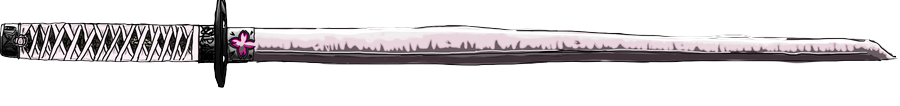
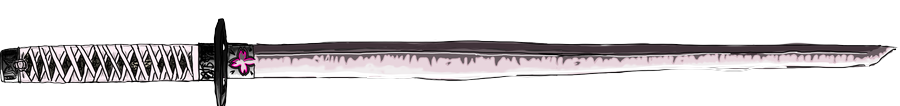
旧一閃: 桜華を持つと桜の戦場・花びら・赤黒い居合の軌跡、互いに後なしで赤黒い落花の夜、タイトルも赤黒に。桜華の絵の刃の向きを他の刀に揃える
Claude-Session: https://claude.ai/code/session_01DBbkq7fSoX7Bq9Hc8fxKrx

diff --git a/js/game.js b/js/game.js
@@ -215,7 +215,7 @@ const KATANA=[
   {id:'shiden',mei:'紫電',yomi:'しでん',tier:'極',wrap:[72,32,112],metal:'silver',blade:[172,102,255,0.45],lore:'研ぎ澄まされた刃のきらめき。紫の稲妻。',slash:{col:'#f3e8ff',glow:'rgba(170,90,255,1)',double:true,thick:1.3}},
   {id:'mugen',mei:'夢幻',yomi:'むげん',tier:'幻',wrap:[22,22,32],metal:'gold',blade:'iris',lore:'夢か、幻か。持つ者の影さえ映さない。',slash:{rainbow:true,glow:'rgba(180,140,255,1)',double:true,thick:1.5}},
   {id:'nichirin',mei:'日輪',yomi:'にちりん',tier:'幻',wrap:[232,202,122],metal:'gold',blade:[255,232,152,0.5],lore:'昇る日の輪。抜けば竹林に朝が来るという。',slash:{col:'#fff6d0',glow:'rgba(255,190,40,1)',double:true,thick:1.6}},
-  {id:'ouka',mei:'桜華',yomi:'おうか',tier:'絶',src:'assets/katana_ouka.png',lore:'散ってなお咲く、ただ一振りの桜。抜けば竹林に花が舞う。',slash:{col:'#ffe8f0',glow:'rgba(255,140,185,1)',double:true,thick:1.7}},
+  {id:'ouka',mei:'桜華',yomi:'おうか',tier:'絶',src:'assets/katana_ouka.png',lore:'散ってなお咲く、ただ一振りの桜。抜けば竹林に花が舞う。',slash:{col:'#24030a',glow:'rgba(235,20,55,1)',double:true,thick:1.7,petals:true}},
   {id:'geppaku',mei:'月白',yomi:'げっぱく',tier:'幻',wrap:[236,236,242],metal:'silver',blade:'iris',lore:'月が昇る前、東の空がわずかに白む色。鍛えた者を誰も知らない。',slash:{rainbow:true,glow:'rgba(233,184,255,1)',double:true,thick:1.5}}
 ];
 const KMAP={}; KATANA.forEach(k=>KMAP[k.id]=k);
@@ -713,16 +713,16 @@ function drawSlashes(c,now){
   const xW0=sideX(fx.sW), xL0=sideX(fx.sL), dirWL=Math.sign(xL0-xW0), dirLW=-dirWL, base=Math.max(3,VH*0.014)*(fx.mutual?1.6:1);
   if(fx.kind==='iai'&&e>=120){
     const u=ease(clamp((e-120)/200)), life=1-clamp((e-380)/800), y=GY-0.58*FH;
-    slash(c,dirWL>0?-40:VW+40,y,dirWL>0?VW+40:-40,y,u,base*life,katOf(fx.W.i).slash);
+    slash(c,dirWL>0?-40:VW+40,y,dirWL>0?VW+40:-40,y,u,base*life,katOf(fx.W.i).slash); zSlashPetals(c,fx.W.i,e-120);
   } else if((fx.kind==='counter1'||fx.kind==='counterWin')&&e>=140){
     const cx=(xL0+xW0)/2, cy=GY-0.55*FH, a=0.62, d=[dirLW*Math.cos(a),Math.sin(a)], half=VW*0.2;
     const u=ease(clamp((e-140)/170)), life=1-clamp((e-420)/650);
-    slash(c,cx-d[0]*half,cy-d[1]*half,cx+d[0]*half,cy+d[1]*half,u,base*0.95*life,katOf(fx.W.i).slash);
+    slash(c,cx-d[0]*half,cy-d[1]*half,cx+d[0]*half,cy+d[1]*half,u,base*0.95*life,katOf(fx.W.i).slash); zSlashPetals(c,fx.W.i,e-120);
   } else if(fx.kind==='just'){
     if(e>=120){ const u=ease(clamp((e-120)/160)), life=1-clamp((e-285)/120), y=GY-0.58*FH;
-      slash(c,dirLW>0?-40:VW+40,y,VW/2,y,u,base*life,katOf(fx.L.i).slash); }
+      slash(c,dirLW>0?-40:VW+40,y,VW/2,y,u,base*life,katOf(fx.L.i).slash); zSlashPetals(c,fx.L.i,e-120); }
     if(e>=300){ const u=ease(clamp((e-300)/180)), life=1-clamp((e-650)/900), y=GY-0.6*FH;
-      slash(c,dirLW>0?VW+40:-40,y,dirLW>0?-40:VW+40,y,u,base*1.25*life,katOf(fx.W.i).slash); }
+      slash(c,dirLW>0?VW+40:-40,y,dirLW>0?-40:VW+40,y,u,base*1.25*life,katOf(fx.W.i).slash); zSlashPetals(c,fx.W.i,e-120); }
   } else if(fx.kind==='aiuchi'&&e>=250){
     const u=ease(clamp((e-250)/120)), life=1-clamp((e-420)/400), cx=VW/2, cy=GY-0.6*FH, r=FH*0.6;
     slash(c,cx-r,cy-r*0.6,cx+r,cy+r*0.6,u,base*0.8*life); slash(c,cx+r,cy-r*0.6,cx-r,cy+r*0.6,u,base*0.8*life);
@@ -899,20 +899,27 @@ function enso(c,cx,cy,R,col,seed){ const r=mulberry32(seed); const a0=-1.9, span
   c.restore(); }
 function drawTitle(c,now){
   // 墨を重ねて竹林を沈める
+  const Z=KREADY&&katOf(0).tier==='絶'; // 絶の刀を持たせていると、赤黒い闇と紅い月
+  const R=Math.min(VH*0.3,VW*0.2), ecx=VW*0.36, ecy=VH*0.42;
+  if(Z){ c.save(); const zg=c.createRadialGradient(VW*0.4,VH*0.5,VH*0.05,VW*0.45,VH*0.5,Math.max(VW,VH)*0.75); zg.addColorStop(0,'#5a0d18'); zg.addColorStop(0.55,'#250609'); zg.addColorStop(1,'#070203');
+    c.fillStyle=zg; c.fillRect(0,0,VW,VH);
+    c.globalAlpha=0.6; c.fillStyle='#b3122a'; c.shadowColor='#ff2a44'; c.shadowBlur=R*0.5; c.beginPath(); c.arc(ecx+R*0.55,ecy-R*0.35,R*0.62,0,7); c.fill(); c.restore();
+    c.save(); c.globalAlpha=0.1; c.fillStyle='#ff5a6a'; c.font='bold '+(R*2.1)+'px '+DISPLAY; c.textAlign='center'; c.textBaseline='middle'; c.fillText('絶',ecx-R*0.55,ecy+R*0.15); c.restore();
+    enso(c,ecx,ecy,R,'rgba(220,40,60,0.22)',23);
+  } else {
   c.save(); c.fillStyle='rgba(14,15,12,0.84)'; c.fillRect(0,0,VW,VH);
   const vg=c.createRadialGradient(VW*0.34,VH*0.4,VH*0.1,VW*0.4,VH*0.5,Math.max(VW,VH)*0.75); vg.addColorStop(0,'rgba(40,42,34,0)'); vg.addColorStop(1,'rgba(4,4,3,0.7)');
   c.fillStyle=vg; c.fillRect(0,0,VW,VH); c.restore();
   // 月（円相）
-  const R=Math.min(VH*0.3,VW*0.2), ecx=VW*0.36, ecy=VH*0.42;
   c.save(); const mg=c.createRadialGradient(ecx,ecy,0,ecx,ecy,R*1.6); mg.addColorStop(0,'rgba(230,222,200,0.10)'); mg.addColorStop(1,'rgba(230,222,200,0)'); c.fillStyle=mg; c.fillRect(0,0,VW,VH); c.restore();
-  enso(c,ecx,ecy,R,'rgba(226,218,196,0.13)',23);
+  enso(c,ecx,ecy,R,'rgba(226,218,196,0.13)',23); }
   // 刀の下に掃いた墨
   const kw=Math.min(VW*0.66,VH*1.7), kh=kw*KIMG_H/KIMG_W, kcx=VW*0.37, kcy=VH*0.47, ang=-0.2;
   c.save(); c.translate(kcx,kcy); c.rotate(ang);
   brushStroke(c,-kw*0.58,kh*1.5,kw*0.46,kh*1.25,kh*1.1,'rgba(4,4,3,0.55)',7);
   // 刀（描き替えず、光と影だけ）
   if(KIMG.complete&&KIMG.naturalWidth){
-    const TK=KREADY?katOf(0).canvas:KIMG; c.save(); c.shadowColor='rgba(0,0,0,0.85)'; c.shadowBlur=18; c.shadowOffsetY=6; c.drawImage(TK,-kw/2,-kh/2,kw,kh); c.restore();
+    const TK=KREADY?katOf(0).canvas:KIMG; c.save(); c.shadowColor=Z?'rgba(255,30,60,0.8)':'rgba(0,0,0,0.85)'; c.shadowBlur=18; c.shadowOffsetY=6; c.drawImage(TK,-kw/2,-kh/2,kw,kh); c.restore();
     const T=5200, k=(now%T)/T;
     if(k<0.42){ const u=ease(k/0.42), B0=262, sx=B0+(KIMG_W-B0)*u, gw=KIMG_W*0.09, a=0.85*Math.sin(Math.PI*u);
       if(!SHINE){ SHINE=document.createElement('canvas'); SHINE.width=KIMG_W; SHINE.height=KIMG_H; }
@@ -937,15 +944,79 @@ function drawTitle(c,now){
   c.globalCompositeOperation='destination-out'; const r=mulberry32(3); for(let i=0;i<26;i++){ c.globalAlpha=0.5; c.beginPath(); c.arc((r()-0.5)*sz,(r()-0.5)*sz,r()*sz*0.035,0,7); c.fill(); }
   c.restore();
   txt(c,'閃',lx,ly+1,sz*0.72,DISPLAY,'rgba(14,15,12,0.85)','center');
+  // 散る花びら（絶）
+  if(Z){ for(let i=0;i<90;i++){ const q=ZPET[i], t=now/1000, x=((q.x+t*0.02*q.s+Math.sin(t*0.7+i)*0.01)%1)*VW, y=((q.y+t*0.035*q.s)%1)*VH, sz=VH*0.008*(1+q.s), rr=q.r+t*1.5*q.s;
+    c.save(); c.globalAlpha=0.55+q.v*0.4; c.fillStyle=q.k<0.3?'#1a0205':q.k<0.75?'#b3122a':'#e0566c'; c.translate(x,y); c.rotate(rr); c.scale(1,0.45+0.55*Math.abs(Math.sin(rr*1.7))); c.beginPath(); c.ellipse(0,0,sz,sz*0.55,0,0,7); c.fill(); c.restore(); } }
   // 散る一葉
   const lt=(now%9000)/9000, lx2=VW*(0.62-lt*0.25)+Math.sin(lt*9)*VW*0.02, ly2=VH*(-0.05+lt*1.1), L=VH*0.024;
-  c.save(); c.translate(lx2,ly2); c.rotate(0.6+Math.sin(lt*7)*0.9); c.fillStyle='rgba(150,160,120,0.5)'; c.beginPath(); c.moveTo(-L,0); c.quadraticCurveTo(0,-L*0.22,L,0); c.quadraticCurveTo(0,L*0.22,-L,0); c.fill(); c.restore();
+  if(!Z){ c.save(); c.translate(lx2,ly2); c.rotate(0.6+Math.sin(lt*7)*0.9); c.fillStyle='rgba(150,160,120,0.5)'; c.beginPath(); c.moveTo(-L,0); c.quadraticCurveTo(0,-L*0.22,L,0); c.quadraticCurveTo(0,L*0.22,-L,0); c.fill(); c.restore(); }
   // 紙の肌理
   c.save(); c.fillStyle=grainPattern(c); c.fillRect(0,0,VW,VH); c.restore();
 }
 
 
 /* ---------- 互いに後なし：ステージの変化と豪華な決着 ---------- */
+/* ---------- 絶の戦場（桜華を持つ者がいると竹林が桜の森に。互いに後なしでは赤黒い落花の夜） ---------- */
+const ZFS={b:0,f:0,last:0};
+function zetsuField(now){
+  const on=G.phase!=='title'&&(katOf(0).tier==='絶'||katOf(1).tier==='絶');
+  const dt=Math.min(0.1,Math.max(0,(now-ZFS.last)/1000)); ZFS.last=now;
+  ZFS.b+=((on?1:0)-ZFS.b)*Math.min(1,dt*3); if(!on&&ZFS.b<0.01) ZFS.b=0;
+  ZFS.f=on?mutualLevel(now):0; return ZFS;
+}
+function buildSakuraBG(night){
+  const bgc=document.createElement('canvas'); bgc.width=Math.round(VW*DPR); bgc.height=Math.round(VH*DPR);
+  const b=bgc.getContext('2d'); b.setTransform(DPR,0,0,DPR,0,0); const rnd=mulberry32(night?71:70);
+  let g=b.createLinearGradient(0,0,0,GY);
+  if(night){ g.addColorStop(0,'#050102'); g.addColorStop(0.5,'#2c040b'); g.addColorStop(1,'#7a0c1e'); } else { g.addColorStop(0,'#f8dfe6'); g.addColorStop(0.6,'#f0bccb'); g.addColorStop(1,'#dc90a8'); }
+  b.fillStyle=g; b.fillRect(0,0,VW,GY+2);
+  if(night){ // 大きな月と、紅い暈
+    const mx=VW*0.72, my=VH*0.24, R=Math.min(VW,VH)*0.17; const mg=b.createRadialGradient(mx,my,R*0.7,mx,my,R*2.6); mg.addColorStop(0,'rgba(255,190,200,.35)'); mg.addColorStop(1,'rgba(255,60,80,0)'); b.fillStyle=mg; b.fillRect(0,0,VW,GY);
+    b.fillStyle='#f3dde0'; b.beginPath(); b.arc(mx,my,R,0,7); b.fill(); b.fillStyle='rgba(170,20,45,.28)'; b.beginPath(); b.arc(mx-R*0.22,my-R*0.08,R*0.84,0,7); b.fill();
+  } else { const sg=b.createRadialGradient(VW*0.5,VH*0.3,0,VW*0.5,VH*0.3,VH*0.6); sg.addColorStop(0,'rgba(255,246,248,.9)'); sg.addColorStop(1,'rgba(255,246,248,0)'); b.fillStyle=sg; b.fillRect(0,0,VW,VH); }
+  // 桜の木を一列に（奥行きなし）
+  const n=Math.max(5,Math.round(VW/(FH*1.25))), trunk=night?'#0c0103':'#6e3a4c', blos=night?['#5a0a14','#7d0f20','#a3182c']:['#f8d3de','#f2b3c6','#e88aa7'];
+  for(let i=0;i<n;i++){ let x=(i+0.5)*VW/n+(rnd()-0.5)*VW/n*0.5; if(Math.abs(x-VW*0.2)<VW*0.05||Math.abs(x-VW*0.8)<VW*0.05) x+=VW*0.06*(rnd()<0.5?-1:1);
+    const h=FH*(1.9+rnd()*0.35), w=FH*(0.95+rnd()*0.25);
+    b.strokeStyle=trunk; b.lineCap='round'; b.lineWidth=FH*0.075; b.beginPath(); b.moveTo(x,GY+2); b.quadraticCurveTo(x+FH*0.08,GY-h*0.5,x,GY-h*0.72); b.stroke();
+    b.lineWidth=FH*0.03; b.beginPath(); b.moveTo(x+FH*0.03,GY-h*0.5); b.lineTo(x-w*0.5,GY-h*0.8); b.moveTo(x+FH*0.04,GY-h*0.58); b.lineTo(x+w*0.55,GY-h*0.86); b.stroke();
+    const nb=night?6:12; for(let j=0;j<nb;j++){ b.fillStyle=blos[j%3]; b.globalAlpha=night?0.9:0.95; b.beginPath(); b.arc(x+(rnd()-0.5)*w*1.1,GY-h*0.74-rnd()*h*0.26,w*(0.13+rnd()*0.14),0,7); b.fill(); } b.globalAlpha=1; }
+  // 地面
+  const gr=b.createLinearGradient(0,GY,0,VH); if(night){ gr.addColorStop(0,'#1a0206'); gr.addColorStop(1,'#050102'); } else { gr.addColorStop(0,'#6b3a48'); gr.addColorStop(1,'#3a1c26'); }
+  b.fillStyle=gr; b.fillRect(0,GY,VW,VH-GY); b.fillStyle=night?'rgba(255,90,110,.35)':'rgba(255,230,236,.35)'; b.fillRect(0,GY,VW,2);
+  return bgc;
+}
+function drawZetsuField(c,now,zf){
+  const key=VW+'x'+VH+'@'+DPR; if(!bgCache[key+'s']) bgCache[key+'s']=buildSakuraBG(false); if(!bgCache[key+'n']) bgCache[key+'n']=buildSakuraBG(true);
+  c.save(); c.globalAlpha=zf.b; c.drawImage(bgCache[key+'s'],0,0,VW,VH);
+  if(zf.f>0){ c.globalAlpha=zf.b*zf.f; c.drawImage(bgCache[key+'n'],0,0,VW,VH);
+    const pulse=0.5+0.5*Math.sin(now/520); const vg=c.createRadialGradient(VW/2,VH*0.5,Math.min(VW,VH)*0.32,VW/2,VH*0.5,Math.max(VW,VH)*0.75); vg.addColorStop(0,'rgba(40,0,6,0)'); vg.addColorStop(1,'rgba(30,0,4,'+(0.5+0.15*pulse)+')'); c.fillStyle=vg; c.fillRect(0,0,VW,VH); }
+  c.restore();
+}
+// 散り続ける花びら（画面の座標。昼は薄紅、落花の夜は紅と黒が吹き荒れる）
+const ZPET=[]; (function(){ const r=mulberry32(29); for(let i=0;i<320;i++) ZPET.push({x:r(),y:r(),s:0.6+r()*1.1,r:r()*6,v:r(),k:r()}); })();
+function drawZetsuPetals(c,now,dt,zf){
+  const f=zf.f, n=Math.floor((90+230*f)*zf.b), wind=0.02+f*0.16+Math.max(0,Math.sin(now/900))*f*0.12, fall=0.05+f*0.07;
+  const PK=['#f8d3de','#f2b3c6','#e88aa7'], CR=['#a3182c','#7d0f20','#2a0306'];
+  for(let i=0;i<n;i++){ const q=ZPET[i];
+    if(dt>0){ q.x+=(wind+0.01*Math.sin(now/700+i))*q.s*dt; q.y+=(fall*q.s+0.008*Math.sin(now/500+i))*dt; q.r+=dt*2*q.s; }
+    if(q.y>1.04){ q.y=-0.04; q.x=Math.random(); } if(q.x>1.04){ q.x=-0.04; q.y=Math.random(); }
+    const x=q.x*VW, y=q.y*VH, sz=VH*0.008*(1+q.s)*(0.9+f*0.4);
+    c.save(); c.globalAlpha=(0.55+q.v*0.45)*zf.b; c.fillStyle=f>0.5&&q.k<0.75?CR[i%3]:PK[i%3]; c.translate(x,y); c.rotate(q.r); c.scale(1,0.45+0.55*Math.abs(Math.sin(q.r*1.7)));
+    c.beginPath(); c.ellipse(0,0,sz,sz*0.55,0,0,7); c.fill(); c.restore(); }
+}
+// 桜華の居合: 赤黒い軌跡から花びらが散る
+function zSlashPetals(c,i,te){
+  const k=katOf(i); if(!k.slash||!k.slash.petals||te<0||te>1700) return;
+  const y=GY-0.58*FH, r=mulberry32(91+i), t=te/1000;
+  c.save();
+  for(let j=0;j<70;j++){ const px=r()*VW, vx=(r()-0.5)*VW*0.12, vy=-(0.1+r()*0.5)*FH, rot=r()*6, s=FH*(0.018+r()*0.03), born=Math.abs(px-(MIR?VW-px:px))*0+r()*0.18;
+    const tt=t-born; if(tt<0) continue; const a=Math.max(0,1-tt/1.5);
+    const x=px+vx*tt, yy=y+(r()-0.5)*FH*0.12+vy*tt+FH*0.9*tt*tt;
+    c.globalAlpha=a; c.fillStyle=j%4===0?'#1a0205':j%2?'#c4142e':'#ff8aa0'; c.save(); c.translate(x,yy); c.rotate(rot+tt*5); c.scale(1,0.5+0.5*Math.abs(Math.sin(rot+tt*6)));
+    c.beginPath(); c.ellipse(0,0,s,s*0.55,0,0,7); c.fill(); c.restore(); }
+  c.restore();
+}
 function mutualLevel(now){ if(!G.mutualAt||!(G.phase==='fight'||G.phase==='fx'||G.phase==='result')) return 0; return clamp((now-G.mutualAt)/1200); }
 function drawMutualStage(c,now){
   const m=mutualLevel(now); if(m<=0) return;
@@ -1023,11 +1094,13 @@ function renderView(c,now,V,dt,vw){
   c.save(); c.translate(sx,sy);
   if(MIR){ c.translate(VW,0); c.scale(-1,1); }
   c.drawImage(bg,0,0,VW,VH);
-  drawMutualStage(c,now);
-  if(G.phase!=='title') for(let i=0;i<2;i++) drawFighter(c,V[i],P[i].J,{col:COL[i].main,glint:V[i].glint,time:now/1000,seed:i*2,kat:katOf(i)});
+  const zf=zetsuField(now);
+  if(zf.b>0) drawZetsuField(c,now,zf); else drawMutualStage(c,now);
+  if(G.phase!=='title') for(let i=0;i<2;i++){ c.save(); if(zf.f>0.05){ c.shadowColor='rgba(255,190,200,'+(0.9*zf.f)+')'; c.shadowBlur=Math.max(6,FH*0.05); }
+    drawFighter(c,V[i],P[i].J,{col:COL[i].main,glint:V[i].glint,time:now/1000,seed:i*2,kat:katOf(i)}); c.restore(); }
   for(let i=0;i<2;i++) if(V[i].extras&&(G.phase==='fight'||G.phase==='ready')) drawExtras(c,V[i],P[i],now);
   drawParts(c,'rgba(20,21,18,0.9)');
-  if(G.phase!=='title') drawLeaves(c,now,dt,mutualLevel(now));
+  if(G.phase!=='title'){ if(zf.b>0) drawZetsuPetals(c,now,dt,zf); else drawLeaves(c,now,dt,mutualLevel(now)); }
   const da=darkAlpha(now);
   if(da>0){ c.fillStyle='rgba(5,7,6,'+da+')'; c.fillRect(-30,-30,VW+60,VH+60);
     c.save(); c.globalAlpha=clamp(da/0.85); for(let i=0;i<2;i++) drawFighter(c,V[i],P[i].J,{mono:PALE,col:PALE,time:now/1000,seed:i*2,kat:katOf(i)}); drawParts(c,PALE); c.restore(); }
